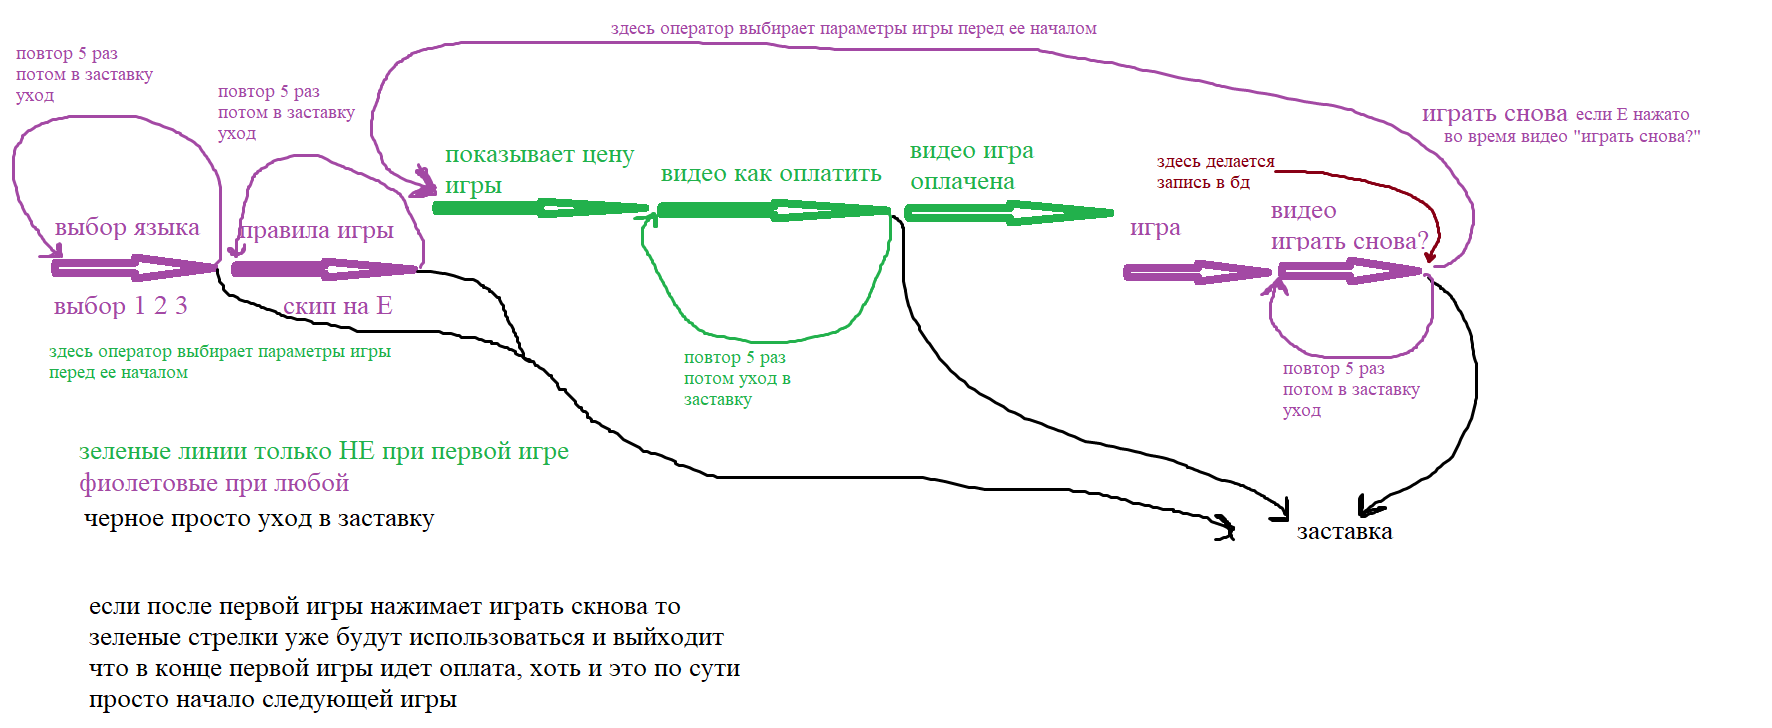
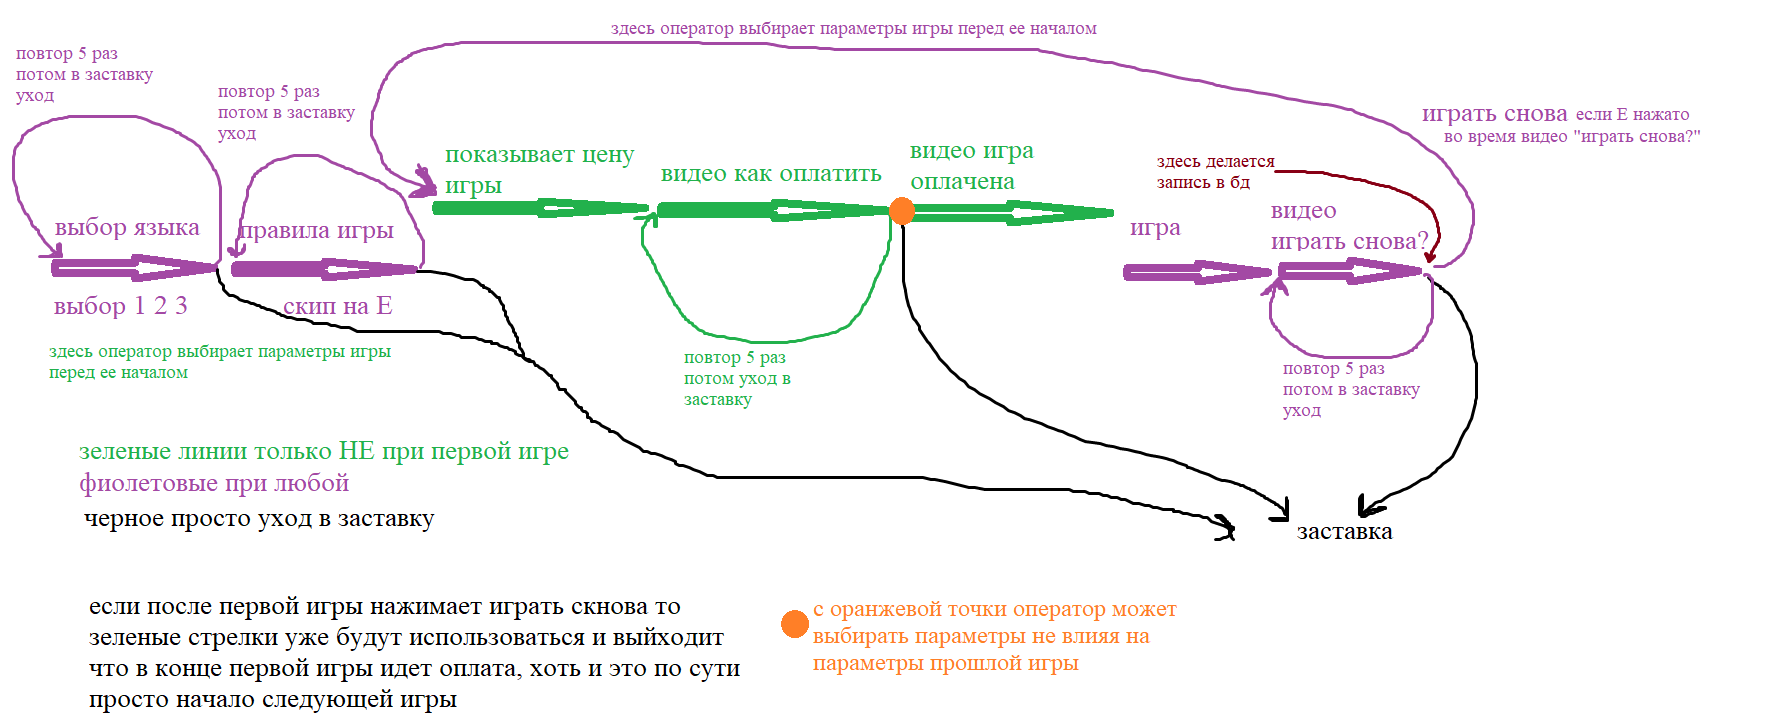
gameVideoQueue and db fixes

Changed region(s): [[0.4345, 0.8159, 0.6518, 0.9368], [0.4966, 0.272, 0.5277, 0.3022]]

diff --git a/StaticClasses/VideoChecker.cs b/StaticClasses/VideoChecker.cs
@@ -25,10 +25,8 @@ namespace vlc_works
 		private static long videoGameTimeWas { get; set; } // time video game was stopped
 
 		// video paths
-		public static string videoFileName { get; set; } = string.Empty; // game video path
-
-		public static Uri gameVideoUri { get; set; }
-		//public static PathUri gameVideo { get; set; } = new PathUri(""); // a good thing to think about
+		public static bool awaitGameVideo { get; set; } = false;
+		public static List<PathUri> gameVideosQueue { get; set; } = new List<PathUri>();
 
 		public static PathUri errorVideo { get; set; }
 		public static PathUri idle { get; set; }
@@ -99,22 +97,35 @@ namespace vlc_works
 			path != errorVideo.Path && path != selectLang.Path && path != idle.Path &&
 			langs.Values.All(l => l.Rules.Path != path && l.Params.Path != path && l.Victory.Path != path);
 
-		public static void VlcChanged()
+		public static void VlcChanged(PathUri gamePathUri)
 		{
-			code = Utils.GetCodeFromName(Utils.GetSafeFileName(videoFileName), strFrom, strTo).TrimEnd(' ') + "E";
-			accountingForm.Invoke((MethodInvoker)delegate
+			code = Utils.GetCodeFromName(Utils.GetSafeFileName(gamePathUri.Path), strFrom, strTo).TrimEnd(' ') + "E";
+			accountingForm.Invoke(new Action(() => accountingForm.GotGameVideo(gamePathUri.Path, code)));
+
+			gameVideosQueue.Add(gamePathUri);
+
+			if (awaitGameVideo)
+				StartVideoInQueue();
+			awaitGameVideo = false;
+		}
+
+		public static void StartVideoInQueue()
+		{
+			if (gameVideosQueue.Count == 0)
 			{
-				accountingForm.GotGameVideo(videoFileName, code);
-			});
+				awaitGameVideo = true;
+				return;
+			}
+
+			Uri gameVideoUri = gameVideosQueue[0].Uri;
 
 			videoGameTimeWas = 0;
 			errorsCount = 0;
 			clientForm.BeginInvoke(new Action(() =>
 			{
-				clientForm.stage = Stage.GAME;
 				clientForm.prizeLabel.Hide();
 				clientForm.costLabel.Hide();
-				clientForm.vlcControl.Play(gameVideoUri);
+				clientForm.Play(gameVideoUri, Stage.GAME);
 			}));
 
 			new Thread(() =>
@@ -195,6 +206,8 @@ namespace vlc_works
 		public static void MediaIndeedEnded(string endedVideoMrl)
 		{
 			print($"ENDED PLAY: {endedVideoMrl}");
+			//print($"VIEOS IN QUEUE: {gameVideosQueue.Count}");
+			//print($"QUEUE:\n\t{string.Join("\t\n", gameVideosQueue.Select(p => p.Uri.AbsoluteUri))}");
 
 			if (currentVideoPlayCount >= maxVideoRepeatTimes)
 				HandleInfinitePlay(endedVideoMrl);
@@ -203,7 +216,7 @@ namespace vlc_works
 				EndDefeatVideo();
 			else if (endedVideoMrl == langs[language].Victory.Uri.AbsoluteUri)
 				EndVictoryVideo();
-			else if (gameVideoUri != null && endedVideoMrl == gameVideoUri.AbsoluteUri)
+			else if (gameVideosQueue.Any(v => v.Uri.AbsoluteUri == endedVideoMrl))
 				EndGameVideo();
 			else if (langs.Values.Any(l => l.Rules.Uri.AbsoluteUri == endedVideoMrl))
 				Replay();
@@ -268,7 +281,7 @@ namespace vlc_works
 
 			clientForm.BeginInvoke(new Action(() =>
 			{
-				clientForm.vlcControl.Play(gameVideoUri);
+				clientForm.vlcControl.Play(gameVideosQueue[0].Uri);
 				clientForm.vlcControl.Time = videoGameTimeWas;
 				clientForm.stage = Stage.GAME;
 			}));
@@ -317,8 +330,7 @@ namespace vlc_works
 			}
 			else
 			{
-				print($"BAD ENDING");
-				print("GAME ENDED");
+				print("THIS IS DEPRICATED AND WHY IS THAT EVEN PRINTED");
 				DeleteInput();
 				gameEnded = true; // bad ending
 				SafeStop();
@@ -327,19 +339,9 @@ namespace vlc_works
 			print($"BLOCK INPUT AT THE END OF THE END OF VIDEO GAME: {blockInput} AND GAME ENDED: {gameEnded}");
 		}
 
-		private static void EndPlayAgainVideo()
-		{
-
-		}
-
-		private static void EndHowToPay()
-		{
-
-		}
-
 		private static void EndGamePayed()
 		{
-			// here operator himself turns video on
+			StartVideoInQueue();
 		}
 
 		public static void SafeStop()

diff --git a/Forms/ClientForm.cs b/Forms/ClientForm.cs
@@ -123,7 +123,7 @@ namespace vlc_works
 			}));
 		}
 
-		private string[] inputNames = new string[] 
+		private readonly string[] inputNames = new string[] 
 		{
 			"playerNameBox",
 			"cBox", "kBox", "mBox"
@@ -180,19 +180,24 @@ namespace vlc_works
 			} catch { }
 		}
 
+		private void EmulateShowParamsButton() => 
+			accountingForm.Invoke(new Action(() => 
+			accountingForm.showButton_Click(null, EventArgs.Empty)));
+
 		private void PlayAgainSkip()
 		{
 			VideoChecker.continued = true;
 
 			DoDataBaseGameRecord();
 			accountingForm.SetIsFirstGame(false);
-			VideoChecker.SafeStop();
+			EmulateShowParamsButton();
+			//VideoChecker.SafeStop();
 			// here need to play game video
 		}
 
-		private long SelectedGameTypeIs(GameType gameType) => 
-			accountingForm.SelectedGameType == gameType 
-				? accountingForm.SelectedLevel 
+		private long SelectedGameTypeIs(GameType gameType) =>
+			DbCurrentRecord.SelectedGameType == gameType 
+				? DbCurrentRecord.SelectedLvl 
 				: -1;
 
 		private void SetNewBoxesValues(long c, long k, long m)
@@ -202,7 +207,7 @@ namespace vlc_works
 				if (!VideoChecker.won) // if not won does not update antng because lvl remains the same
 					return;
 
-				switch (accountingForm.SelectedGameType)
+				switch (DbCurrentRecord.SelectedGameType)
 				{
 					case GameType.Guard:
 						accountingForm.cBox.Text = c.ToString();
@@ -254,9 +259,16 @@ namespace vlc_works
 				wonBoolInt: VideoChecker.won,
 				continuedBoolInt: VideoChecker.continued,
 
-				prizeInt: accountingForm.SelectedAward,
-				priceInt: accountingForm.SelectedPrice
+				prizeInt: DbCurrentRecord.SelectedPrize,
+				priceInt: DbCurrentRecord.SelectedPrice
 			);
+
+			//if (VideoChecker.won && DbCurrentRecord.SelectedLvl < 9)
+			//accountingForm.SetLvl(DbCurrentRecord.SelectedLvl + 1);
+			if (VideoChecker.won && 
+				DbCurrentRecord.SelectedLvl == 0 && 
+				DbCurrentRecord.SelectedGameType == accountingForm.SelectedGameType)
+				accountingForm.SetLvl(1);
 
 			VideoChecker.won = false;
 			VideoChecker.continued = false;
@@ -289,6 +301,8 @@ namespace vlc_works
 
 		public void PlayPlayAgain()
 		{
+			if (VideoChecker.gameVideosQueue.Count != 0) // its impossible but for sure
+				VideoChecker.gameVideosQueue.RemoveAt(0);
 			Play(VideoChecker.currentLanguage.PlayAgain.Uri, Stage.PLAY_AGAIN);
 		}
 
@@ -333,12 +347,19 @@ namespace vlc_works
 		private void SkipRules()
 		{
 			DeleteInput();
-			stage = Stage.COST_AND_PRIZE;
-			BeginInvoke(new Action(() =>
+
+			if (accountingForm.isFirstGame)
 			{
-				ThreadPool.QueueUserWorkItem(_ => vlcControl.Stop());
-			}));
-		}
+				DbCurrentRecord.SetPricePrizeLvl(
+						accountingForm.SelectedPrice,
+						accountingForm.SelectedAward,
+						accountingForm.SelectedLevel,
+						accountingForm.SelectedGameType);
+				VideoChecker.StartVideoInQueue(); // sets Stage.GAME itself
+			}
+			else
+				EmulateShowParamsButton(); // after EndGamePayed does StartVideoInQueue
+	}
 		#endregion
 		#region SOME
 		private void EndReached(object sender, VlcMediaPlayerEndReachedEventArgs e)
@@ -490,7 +511,9 @@ namespace vlc_works
 
 			if (accountingForm.isFirstGame)
 			{
-				accountingForm.SetAward(0); // in the first game award = 0
+				accountingForm.SetAward(0);
+				accountingForm.SetPrice(0);
+				accountingForm.SetLvl(0);
 			}
 			else
 			{

diff --git a/Forms/AccountingForm.cs b/Forms/AccountingForm.cs
@@ -1,6 +1,7 @@
 using System;
 using System.Collections.Generic;
 using System.Data;
+using System.Diagnostics;
 using System.Drawing;
 using System.IO.Ports;
 using System.Linq;
@@ -192,6 +193,12 @@ namespace vlc_works
 			Invoke(new Action(() => priceLabel.Text = SelectedPrice.ToString()));
 		}
 
+		public void SetLvl(long lvl)
+		{
+			SelectedLevel = lvl;
+			Invoke(new Action(() => levelLabel.Text = SelectedLevel.ToString()));
+		}
+
 		public void IncCoinsInStock(long coins)
 		{
 			Invoke(new Action(() =>
@@ -209,7 +216,7 @@ namespace vlc_works
 			{
 				PayedBalance += shekels;
 				Console.WriteLine($"BALANCE + {shekels} NOW IS {PayedBalance} AND CURRENT STAGE IS {clientForm.stage}");
-				Console.WriteLine($"SELECTED PRICE NOW IS {SelectedPrice}");
+				Console.WriteLine($"SELECTED PRICE NOW IS {DbCurrentRecord.SelectedPrice}");
 
 				if (PayedBalance >= SelectedPrice)
 				{
@@ -236,16 +243,14 @@ namespace vlc_works
 		{
 			Button levelButton = sender as Button;
 
-			SelectedLevel = LevelBut2long[levelButton];
-			levelLabel.Text = SelectedLevel.ToString();
+			SetLvl(LevelBut2long[levelButton]);
 		}
 
 		private void OnPriceButClicked(object sender, EventArgs e)
 		{
 			Button priceButton = sender as Button;
 
-			SelectedPrice = PriceBut2long[priceButton];
-			priceLabel.Text = SelectedPrice.ToString();
+			SetPrice(PriceBut2long[priceButton]);
 		}
 		#endregion
 		#region TABLES
@@ -460,7 +465,7 @@ namespace vlc_works
 		}
 		#endregion
 		#region UPPER_PART_BUTTONS
-		private void showButton_Click(object sender, EventArgs e)
+		public void showButton_Click(object sender, EventArgs e)
 		{
 			if (
 				awardLabel.Text != NullText &&
@@ -472,6 +477,12 @@ namespace vlc_works
 				{
 					clientForm.ShowGameParams(SelectedAward, SelectedPrice);
 					clientForm.stage = Stage.COST_AND_PRIZE;
+
+					DbCurrentRecord.SetPricePrizeLvl(
+						SelectedPrice, 
+						SelectedAward, 
+						SelectedLevel,
+						SelectedGameType);
 				}));
 			}
 			else

diff --git a/StaticClasses/VLCChecker.cs b/StaticClasses/VLCChecker.cs
@@ -21,7 +21,7 @@ namespace vlc_works
 		private const string processToCheckName = "vlc";
 		public const string videonamestxt = "videonames.txt";
 		// some
-		static void print(object str = null)
+		private static void print(object str = null)
 		{
 			string stroke = str == null ? "" : str.ToString();
 			Console.WriteLine(stroke);
@@ -93,23 +93,22 @@ namespace vlc_works
 
 		private static void BeginVlcChanged(string videoFile, string cmdPath)
 		{
-			VideoChecker.videoFileName = videoFile; // game video path
-			VideoChecker.gameVideoUri = ClientForm.url2mrl(VideoChecker.videoFileName);
-			if (lastCommandLine != VideoChecker.videoFileName)
+			PathUri gamePathUri = new PathUri(videoFile);
+
+			if (lastCommandLine != videoFile)//VideoChecker.videoFileName)
 			{
 				vlcPath = cmdPath; // vlc path
 				vlcProcess = lastVlcProcess;
-				VlcChanged(); // calls VlcChanged
+				VlcChanged(gamePathUri); // calls VlcChanged
 			}
-			lastCommandLine = VideoChecker.videoFileName;
+			lastCommandLine = videoFile;// VideoChecker.videoFileName;
 		}
 
-		private static void VlcChanged()
+		private static void VlcChanged(PathUri gamePathUri)
 		{
-			// VideoChecker.videoFileName is allready changed here to new one
-			print($"LAST: {lastCommandLine}\n\tCURRENT: {VideoChecker.videoFileName}");
+			print($"LAST: {lastCommandLine}\n\tCURRENT: {gamePathUri.Path}");
 			KillVLC();
-			VideoChecker.VlcChanged();
+			VideoChecker.VlcChanged(gamePathUri);
 		}
 		#endregion
 	}

diff --git a/StaticClasses/DbClasses/DbCurrentRecord.cs b/StaticClasses/DbClasses/DbCurrentRecord.cs
@@ -1,0 +1,18 @@
+namespace vlc_works
+{
+	public static class DbCurrentRecord
+	{
+		public static long SelectedPrice { get; set; }
+		public static long SelectedPrize { get; set; }
+		public static long SelectedLvl { get; set; }
+		public static GameType SelectedGameType { get; set; } = GameType.Guard;
+
+		public static void SetPricePrizeLvl(long price, long prize, long lvl, GameType gameType)
+		{
+			SelectedPrice = price;
+			SelectedPrize = prize;
+			SelectedLvl = lvl;
+			SelectedGameType = gameType;
+		}
+	}
+}
